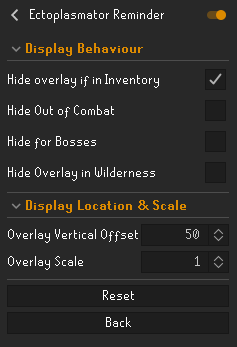
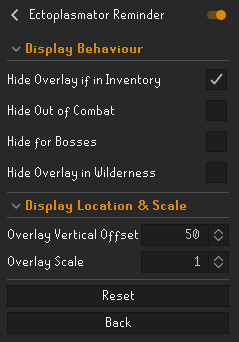
Changed capitalization in config, readme & images

diff --git a/src/main/java/com/ectoplasmator/EctoplasmatorConfig.java b/src/main/java/com/ectoplasmator/EctoplasmatorConfig.java
@@ -44,7 +44,7 @@ public interface EctoplasmatorConfig extends Config
 	@ConfigItem(
 		position = 1,
 		keyName = "hideWhileInInventory",
-		name = "Hide overlay if in Inventory",
+		name = "Hide Overlay if in Inventory",
 		description = "Hides the Ectoplasmator overlay if it's in player's inventory",
 		section = displayBehaviourSection
 	)

diff --git a/README.md b/README.md
@@ -22,11 +22,13 @@ The list of creatures with this attribute can be found on the [wiki](https://old
 <img src="https://github.com/staytheknight/ectoplasmator-reminder/blob/master/src/main/resources/README%20Images/EctoplasmatorPluginConfig.PNG" align="left" />
 
 **Display Behaviour**
-1. <ins>Hide overlay if in Inventory</ins>: Toggle to hide the overlay if the ectorplasmator is in the player's inventory.<br>
+1. <ins>Hide Overlay if in Inventory</ins>: Toggle to hide the overlay if the ectorplasmator is in the player's inventory.<br>
 Gives control to the player in case they want to see the overlay even when they have the ectoplasmator in their inventory.
-2. <ins>Display only in combat</ins>: Toggle to only show overlay while in combat with spectral creatures.<br>
+2. <ins>Hide Out of Combat</ins>: Toggle to only show overlay while in combat with spectral creatures.<br>
 Gives control the player in case they only want to see the overlay while in combat.
-3. <ins>Hide Overlay in Wilderness</ins>: Toggle to hide the overlay while in the wilderness.<br>
+3. <ins>Hide for Bosses</ins>: Toggle to hide the overlay for boss creatures.<br>
+Gives control to players who may not want to show the overlay for boss creatures.
+4. <ins>Hide Overlay in Wilderness</ins>: Toggle to hide the overlay while in the wilderness.<br>
 Gives control to the player in case they want to hide the overlay while in the wilderness, as they may not want to bring their ectoplasmator into the wilderness.
 
 <br><br><br>
